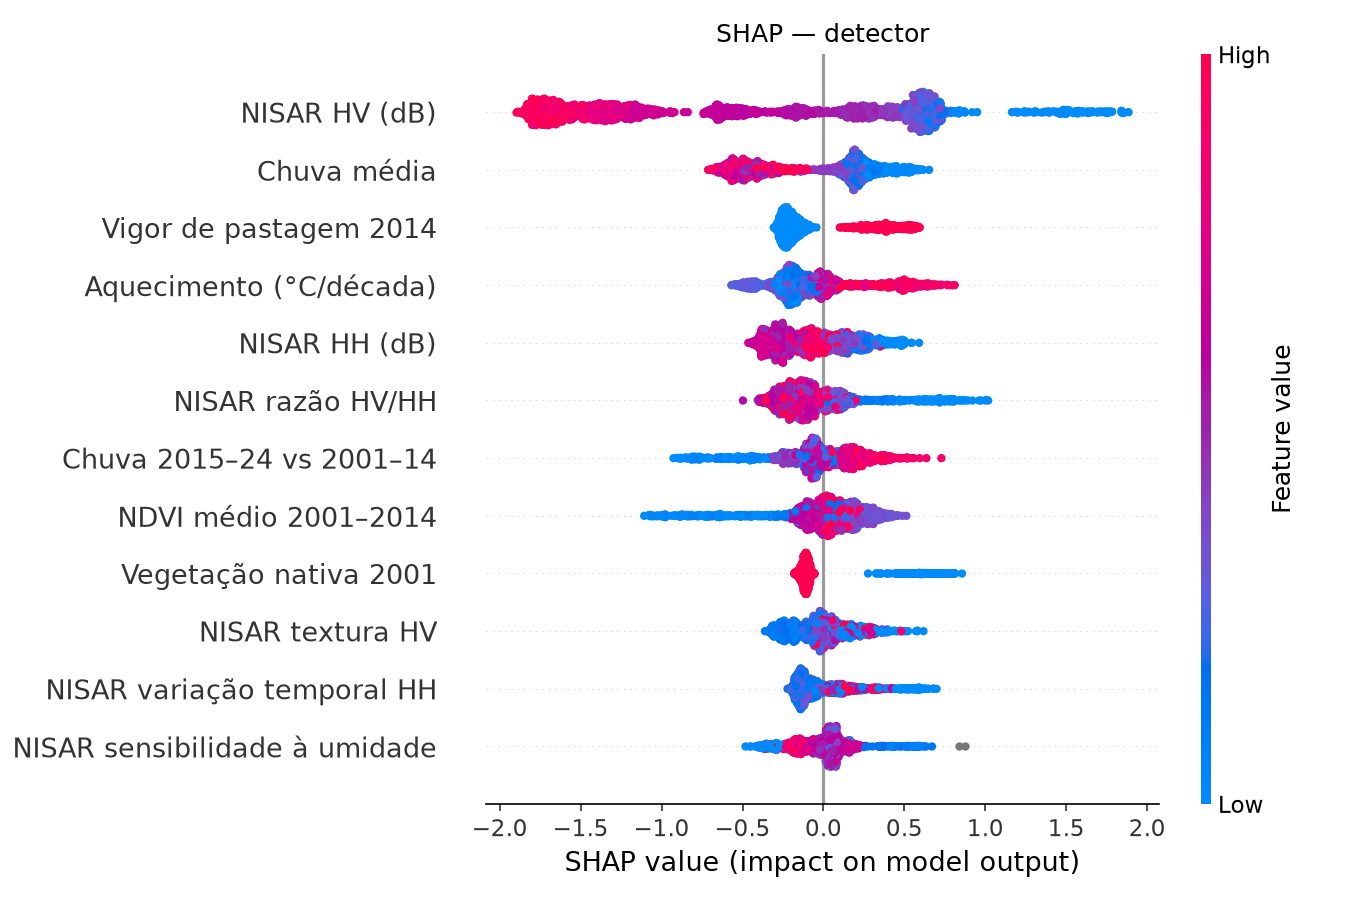
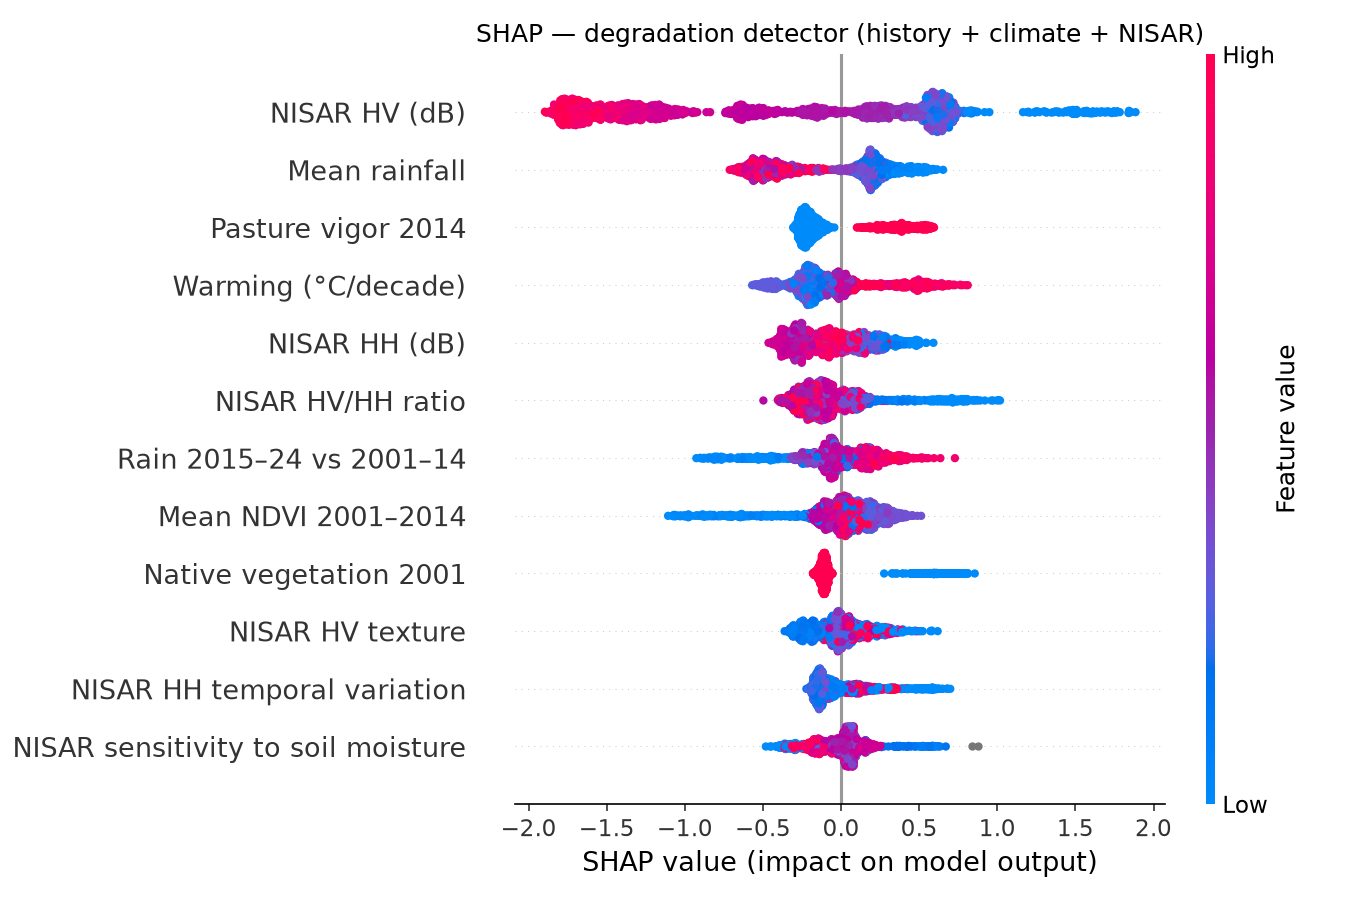
SHAP em inglês: rótulos, famílias, direção do efeito e gráficos; pacote regenerado

diff --git a/pipeline/shap_modelos.py b/pipeline/shap_modelos.py
@@ -31,25 +31,25 @@ OUT = DATA_PROCESSED / "app"
 SEED = 42
 
 LABELS = {
-    "nisar_hv_db": "NISAR HV (dB)", "nisar_hh_db": "NISAR HH (dB)", "nisar_hvhh_db": "NISAR razão HV/HH",
-    "nisar_hv_std_t": "NISAR variação temporal HV", "nisar_hh_std_t": "NISAR variação temporal HH",
-    "nisar_hv_slope": "NISAR tendência sazonal HV", "nisar_hh_slope": "NISAR tendência sazonal HH",
-    "nisar_hv_tex": "NISAR textura HV", "nisar_hh_tex": "NISAR textura HH",
-    "nisar_sens_ndvi": "NISAR sensibilidade ao NDVI", "nisar_sens_umidade": "NISAR sensibilidade à umidade",
-    "hist_ndvi_media": "NDVI médio 2001–2014", "hist_ndvi_min": "NDVI mínimo 2001–2014",
-    "hist_ndvi_cv": "Variabilidade NDVI 2001–2014", "hist_ndvi_tend": "Tendência NDVI 2001–2014",
-    "hist_restrend": "Tendência NDVI sem chuva 2001–2014", "hist_queda_seca_2012": "Queda na seca de 2012",
-    "hist_lc_2001_nativa": "Vegetação nativa 2001", "hist_lc_2014_nativa": "Vegetação nativa 2014",
-    "hist_lc_2014_pastagem": "Pastagem/mosaico 2014", "hist_desmat_ate_2014": "Desmatado até 2014",
-    "hist_vigor_2014": "Vigor de pastagem 2014", "clima_temp_tend": "Aquecimento (°C/década)",
-    "clima_chuva_rec_vs_hist": "Chuva 2015–24 vs 2001–14", "clima_aridez_rec": "Aridez 2015–2024",
-    "clima_chuva_media": "Chuva média", "modis26_ndvi": "NDVI MODIS 2026",
+    "nisar_hv_db": "NISAR HV (dB)", "nisar_hh_db": "NISAR HH (dB)", "nisar_hvhh_db": "NISAR HV/HH ratio",
+    "nisar_hv_std_t": "NISAR HV temporal variation", "nisar_hh_std_t": "NISAR HH temporal variation",
+    "nisar_hv_slope": "NISAR HV seasonal trend", "nisar_hh_slope": "NISAR HH seasonal trend",
+    "nisar_hv_tex": "NISAR HV texture", "nisar_hh_tex": "NISAR HH texture",
+    "nisar_sens_ndvi": "NISAR sensitivity to NDVI", "nisar_sens_umidade": "NISAR sensitivity to soil moisture",
+    "hist_ndvi_media": "Mean NDVI 2001–2014", "hist_ndvi_min": "Minimum NDVI 2001–2014",
+    "hist_ndvi_cv": "NDVI variability 2001–2014", "hist_ndvi_tend": "NDVI trend 2001–2014",
+    "hist_restrend": "Rain-adjusted NDVI trend 2001–2014", "hist_queda_seca_2012": "NDVI drop in the 2012 drought",
+    "hist_lc_2001_nativa": "Native vegetation 2001", "hist_lc_2014_nativa": "Native vegetation 2014",
+    "hist_lc_2014_pastagem": "Pasture/mosaic 2014", "hist_desmat_ate_2014": "Deforested by 2014",
+    "hist_vigor_2014": "Pasture vigor 2014", "clima_temp_tend": "Warming (°C/decade)",
+    "clima_chuva_rec_vs_hist": "Rain 2015–24 vs 2001–14", "clima_aridez_rec": "Aridity 2015–2024",
+    "clima_chuva_media": "Mean rainfall", "modis26_ndvi": "MODIS NDVI 2026",
 }
 
 
 def family(c: str) -> str:
-    return {"nisar": "NISAR (radar 2026)", "hist": "Histórico 2001–2014 (MODIS/MapBiomas)",
-            "clima": "Clima (CHIRPS/ERA5)", "modis26": "MODIS 2026"}[c.split("_")[0]]
+    return {"nisar": "NISAR (radar 2026)", "hist": "History 2001–2014 (MODIS/MapBiomas)",
+            "clima": "Climate (CHIRPS/ERA5)", "modis26": "MODIS 2026"}[c.split("_")[0]]
 
 
 def explain(name: str, df: pd.DataFrame, feats: list[str], target: str, group_col: str = "municipio") -> dict:
@@ -88,11 +88,11 @@ def explain(name: str, df: pd.DataFrame, feats: list[str], target: str, group_co
         locais[str(g)] = {"pontos": int(len(sub)), "prob_media": round(float(sub.prob.mean()), 3),
                           "principais": [{"rotulo": LABELS.get(k[5:], k[5:]), "familia": family(k[5:]),
                                           "efeito": round(float(v), 3),
-                                          "direcao": "aumenta risco" if v > 0 else "reduz risco"} for k, v in top.items()]}
+                                          "direcao": "increases risk" if v > 0 else "reduces risk"} for k, v in top.items()]}
     (OUT / f"shap_{name}_municipios.json").write_text(json.dumps(locais, ensure_ascii=False, indent=2), encoding="utf-8")
 
     shap.summary_plot(sv, X.rename(columns=LABELS), max_display=12, show=False, plot_size=(9, 6))
-    plt.title(f"SHAP — {name}")
+    plt.title({"detector": "SHAP — degradation detector (history + climate + NISAR)", "validador": "SHAP — NISAR-only validator"}.get(name, f"SHAP — {name}"))
     plt.tight_layout()
     plt.savefig(OUT / f"shap_{name}_beeswarm.png", dpi=150)
     plt.close()
